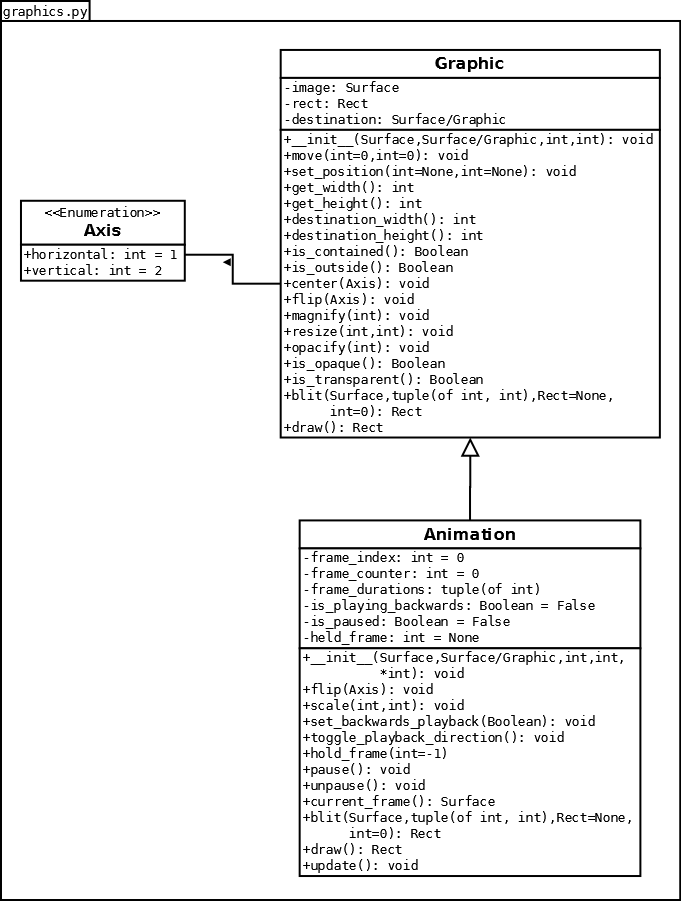
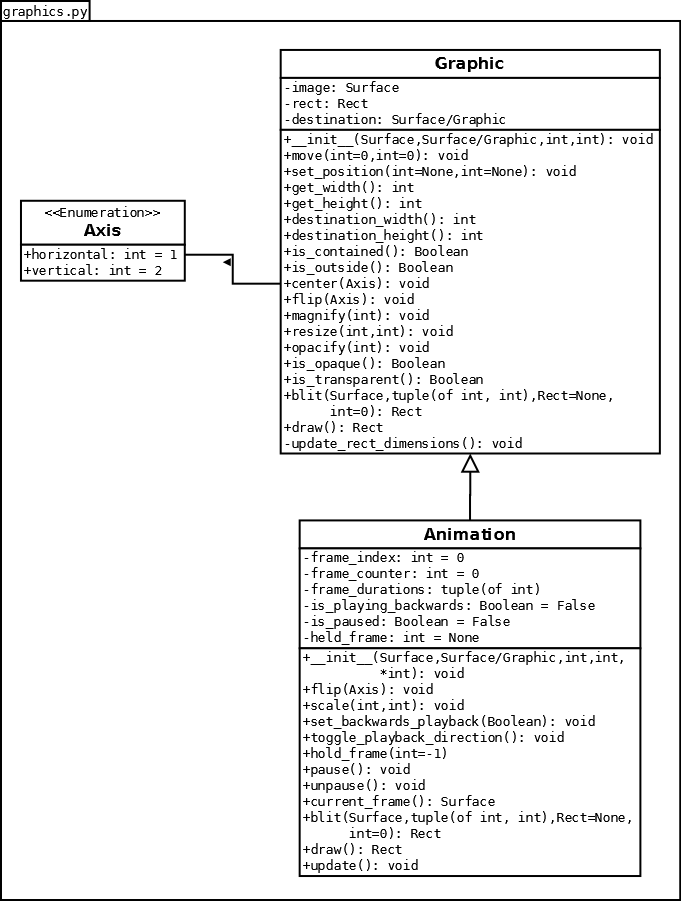
Graphic: Add update_rect_dimensions()
The Rect's width and height will need to be updated after a resize
operation.

Changed region(s): [[0.4009, 0.4656, 0.9559, 0.5277]]

diff --git a/graphics.py b/graphics.py
@@ -178,6 +178,7 @@ class Graphic(object):
         magnified_image = pygame.transform.scale(self._image,
             (self.get_width() * zoom, self.get_height() * zoom))
         self._image = magnified_image
+        self._update_rect_dimensions()
 
     def resize(self, new_width, new_height):
         """Stretch and/or shrink the image to fit new dimensions.
@@ -191,6 +192,14 @@ class Graphic(object):
         resized_image = pygame.transform.scale(self._image,
             (new_width, new_height))
         self._image = resized_image
+        self._update_rect_dimensions()
+
+    def _update_rect_dimensions(self):
+        """Update the width and height of _rect with the current
+        dimensions of _image.
+        """
+        self._rect.width = self._image.get_width()
+        self._rect.height = self._image.get_height()
 
     def opacify(self, amount):
         """Increase or decrease the image's transparency.
